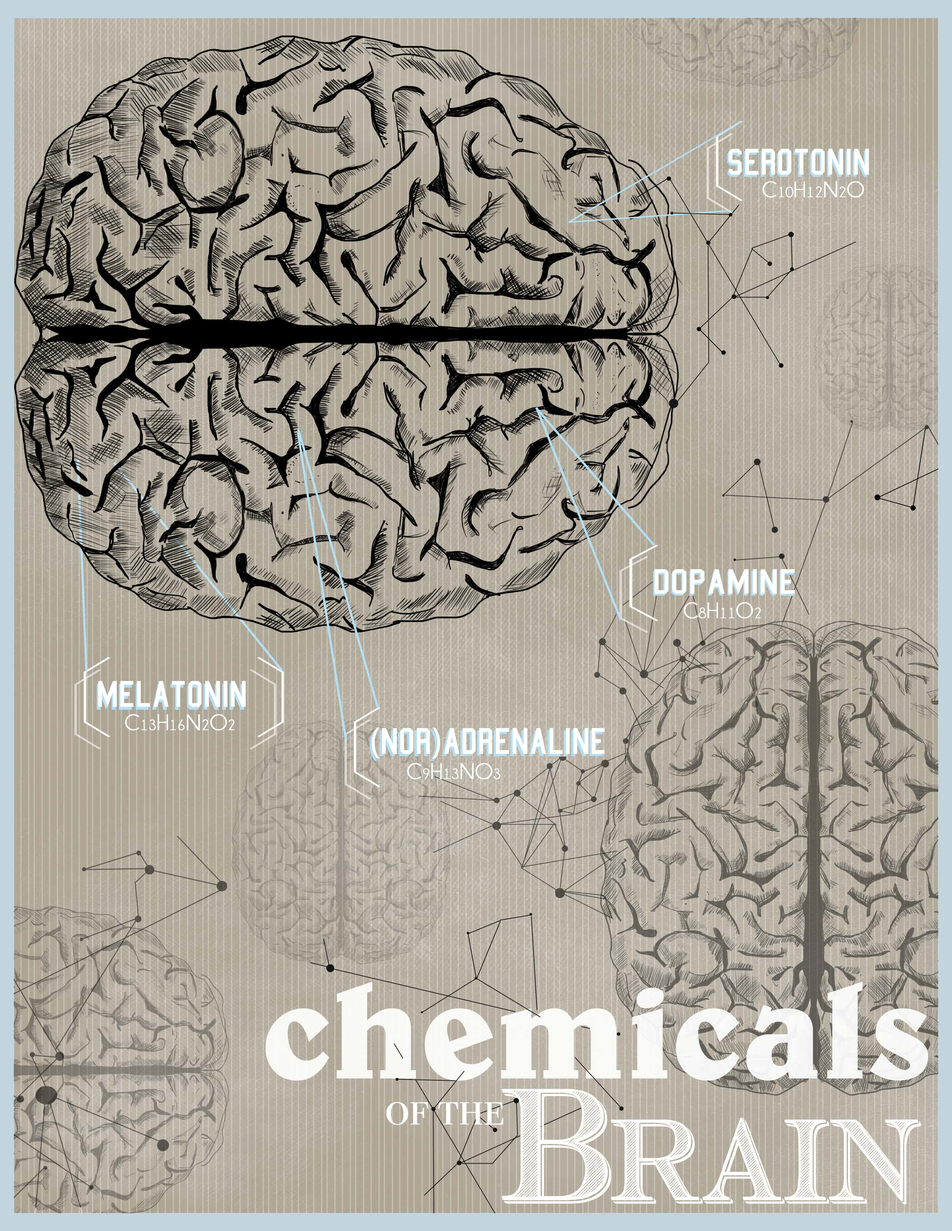
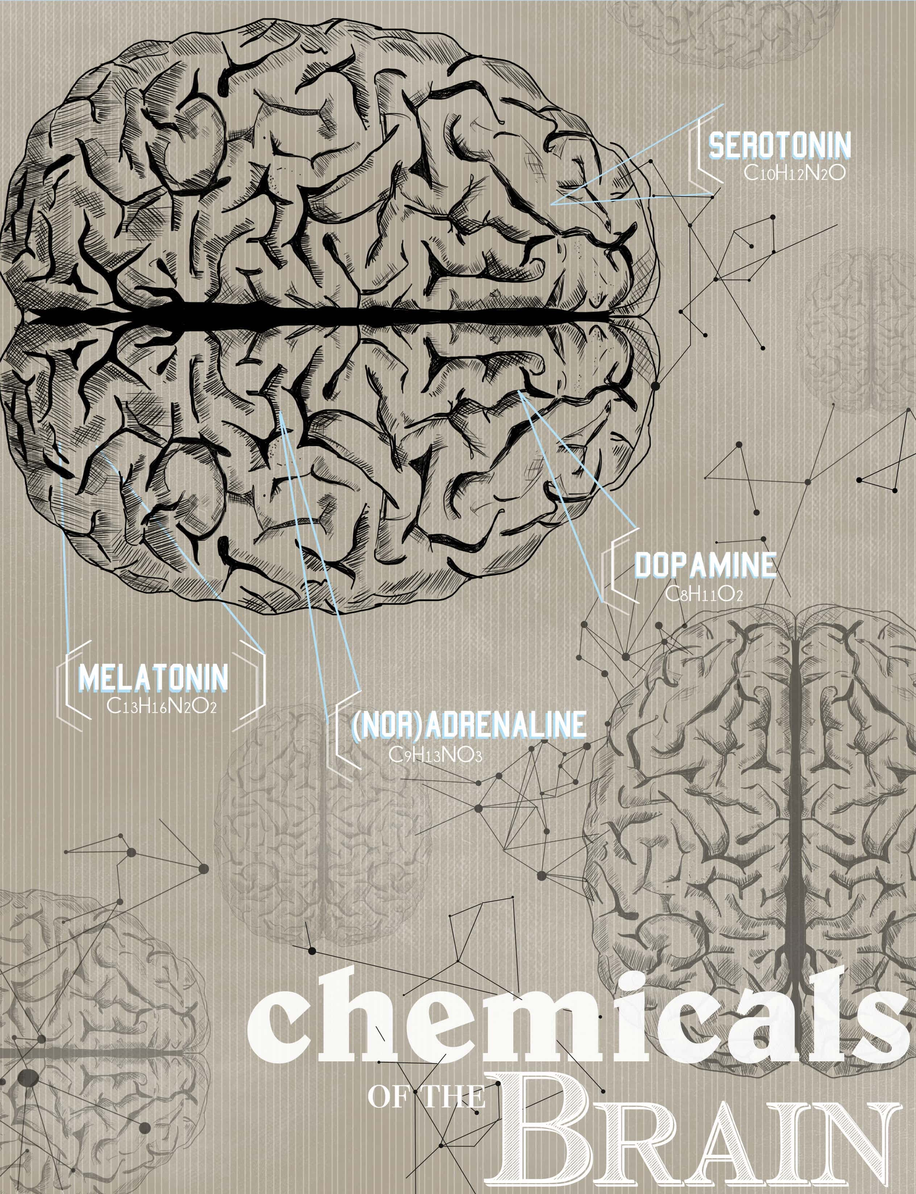
gallery

diff --git a/gallery.html b/gallery.html
@@ -45,84 +45,82 @@
       <div class="uk-width-medium-1-1" style="margin: 40px 0;">
         <span class="sub--section"><a href="work.html"><img src="assets/chevron-left.svg" style="height: 20px; margin-top: -2px; box-shadow: none !important;"><h5 style="display: inline;">Work</h5></a></span>
       </div>
-    <div class="uk-width-medium-1-1 work-title">
-      <h2 style="padding-left: 0;">Graphic Design Gallery</h2>
-    </div>
-    </div>
-    <div class="uk-grid uk-grid-width-medium-1-3">
-      <div class="uk-row-first work-panel" style="overflow:hidden;">
-        <a href="assets/brain.jpg" data-uk-lightbox="{group:'group1'}">
-          <div class="gallery-pic">
-            <img src="assets/brain.jpg">
-          </div>
-        </a>
-      </div>
-      <div class="work-panel" style="overflow:hidden;">
-        <a href="assets/spacec.jpg" data-lightbox-type="image" data-uk-lightbox="{group:'group1'}">
-          <div class="gallery-pic">
-          <img src="assets/spacec.jpg">
-        </div>
-        </a>
-      </div>
-      <div class="work-panel" style="overflow:hidden;">
-        <a href="assets/brainc.jpg" data-lightbox-type="image" data-uk-lightbox="{group:'group1'}">
-          <div class="gallery-pic">
-          <img src="assets/brainc.jpg">
-        </div>
-        </a>
+      <div class='uk-width-medium-1-1 work-title'>
+        <div class="center"><h1 style="margin-top: -95px !important;"> graphic design</h1></div>
       </div>
     </div>
 
-    <div class="uk-grid uk-grid-width-medium-1-3">
-      <div class="uk-row-first work-panel" style="overflow:hidden;">
+    <div class="work-section" >
+
+      <div class="center">
+        <div class="gallery-panels">
+          <a href="assets/brainc.jpg" data-uk-lightbox="{group:'group1'}">
+          <div class="panel gallery-panel">
+            <div class="panel_img" style="background-image: url('./assets/brainc.jpg');" id="full"></div>
+          </div>
+          </a>
+
         <a href="assets/colorwheel.jpg" data-uk-lightbox="{group:'group1'}">
-          <div class="gallery-pic">
-            <img src="assets/colorwheel.jpg" style="min-width: 180%;">
+          <div class="panel gallery-panel">
+            <div class="panel_img" style="background-image: url('./assets/colorwheel.jpg'); " id="img_1"></div>
+            <div class="panel_text">
+              <h3 id="title1"> AP Studio Art </h3>
+              <p id="role1"> Infographics concentration </p>
+              <h4 id="date1"> Spring 2015 </h4>
+            </div>
           </div>
         </a>
-      </div>
-      <div class="work-panel" style="overflow:hidden;">
-        <a href="assets/deforest.jpg" data-lightbox-type="image" data-uk-lightbox="{group:'group1'}">
-          <div class="gallery-pic">
-          <img src="assets/deforest.jpg">
-        </div>
-        </a>
-      </div>
-      <div class="work-panel" style="overflow:hidden;">
-        <a href="assets/christmas_copy.jpg" data-lightbox-type="image" data-uk-lightbox="{group:'group1'}">
-          <div class="gallery-pic">
-          <img src="assets/christmas_copy.jpg">
-        </div>
-        </a>
-      </div>
-    </div>
 
-    <div class="uk-grid uk-grid-width-medium-1-3">
-      <div class="uk-row-first work-panel" style="overflow:hidden;">
-        <a href="assets/dunn_show.jpg" data-uk-lightbox="{group:'group1'}">
-          <div class="gallery-pic">
-            <img src="assets/dunn_show.jpg">
+        <a href="assets/spacec.jpg" data-uk-lightbox="{group:'group1'}">
+        <div class="panel gallery-panel">
+          <div class="panel_img" style="background-image: url('./assets/spacec.jpg');" id="full"></div>
+        </div>
+        </a>
+
+        <a href="assets/spacec.jpg" data-uk-lightbox="{group:'group1'}">
+        <div class="panel gallery-panel" id="text_box">
+          <div class="panel_text">
+            <h3 id="title1"> Design Gallery </h3>
+            <p id="role1"> A few pieces from my high school AP Art studio class. For my concentration, I made a series of infographics. </p>
+            <h4 id="date1"> Spring 2015 </h4>
+          </div>
+        </div>
+        </a>
+
+        <a href="assets/dunvilla.jpg" data-uk-lightbox="{group:'group1'}">
+          <div class="panel gallery-panel">
+            <div class="panel_img" style="background-image: url('./assets/dunvilla.jpg'); " ></div>
+            <div class="panel_text">
+              <h3 id="title1"> Hotel Design </h3>
+              <p id="role1"> Brochure for local hotel </p>
+              <h4 id="date1"> Spring 2015 </h4>
+            </div>
           </div>
         </a>
-      </div>
-      <div class="work-panel" style="overflow:hidden;">
-        <a href="assets/dunvilla.jpg" data-lightbox-type="image" data-uk-lightbox="{group:'group1'}">
-          <div class="gallery-pic">
-          <img src="assets/dunvilla.jpg">
+
+      <a href="assets/deforest.jpg" data-uk-lightbox="{group:'group1'}">
+        <div class="panel gallery-panel">
+          <div class="panel_img" style="background-image: url('./assets/deforest.jpg'); " id="full"></div>
         </div>
-        </a>
-      </div>
-      <div class="work-panel" style="overflow:hidden;">
-        <a href="assets/mn.png" data-lightbox-type="image" data-uk-lightbox="{group:'group1'}">
-          <div class="gallery-pic">
-          <img src="assets/mn.png">
+      </a>
+
+      <a href="assets/christmas_copy.jpg" data-uk-lightbox="{group:'group1'}">
+        <div class="panel gallery-panel">
+          <div class="panel_img" style="background-image: url('./assets/christmas_copy.jpg'); " id="full"></div>
         </div>
-        </a>
+      </a>
+
+      <a href="assets/dunn_show.jpg" data-uk-lightbox="{group:'group1'}">
+        <div class="panel gallery-panel">
+          <div class="panel_img" style="background-image: url('./assets/dunn_show.jpg'); " id="full"></div>
+        </div>
+      </a>
+
+
+      </div>
       </div>
     </div>
-  </div>
-
-
+</div>
   <footer>
     <div>
       <a href='index.html'><p><strong>Hanna Arfine</strong></p>

diff --git a/css/main.css b/css/main.css
@@ -118,28 +118,6 @@ li {
    justify-content: center;
    opacity:0;
 }
-
-.right-container1:hover h3 {
-  visibility: hidden;
-}
-
-.right-container1:hover #overlayblack {
-  opacity: .8;
-  margin-top: -52px;
-  -webkit-transition: opacity .5s ease;
-
-}
-
-.right-container2:hover h3 {
-  visibility: hidden;
-}
-
-.right-container2:hover #overlay {
-  opacity: .8;
-  margin-top: -52px;
-  -webkit-transition: opacity .5s ease;
-}
-
 #more {
   font-family: 'Helvetica Neue', sans-serif;
   text-transform: uppercase;
@@ -522,6 +500,18 @@ p {
   position: absolute;
   flex-wrap: wrap;
 }
+
+.gallery-panels {
+  width: 1000px;
+  margin-top: 4%;
+  position: absolute;
+  flex-wrap: wrap;
+  display: flex;
+    align-items: center;
+}
+#text_box {
+  background: #EBF4FA;
+}
 .panel {
   background: #fff;
   border: .5px solid #ececec;
@@ -535,9 +525,33 @@ p {
   transition: all .2s ease-in-out;
   margin-bottom: 30px;
 }
+.gallery-panel {
+  width: 230px;
+  height: 350px;
+  margin: 10px;
+  box-shadow: 0 1px 7px rgba(0,0,0,.05);
+  border: none;
+}
+.gallery-panel .panel_text {
+  padding: 30px 15px;
+}
+#full {
+  height: 100%;
+}
+.uk-open .uk-modal-dialog {
+      transform: translateY(15%)!important;
+}
+.uk-close-alt {
+  background: #fff !important;
+}
 .panel:hover {
   box-shadow: 0 10px 25px -2px #00000047;
   border: .5px solid #FBEEE7;
+  transition: all .15s ease-in-out;
+}
+.gallery-panel:hover {
+  box-shadow: 0 1px 7px rgba(0,0,0,.3) !important;
+  border: none !important;
   transition: all .15s ease-in-out;
 }
 a {
@@ -661,7 +675,7 @@ a {
 }
 
 .section--contact a{
-  color: #000 !important; 
+  color: #000 !important;
 }
 
 .section--white {
@@ -1114,14 +1128,6 @@ PAGE: PORTFOLIO
 .work-image {
   overflow: hidden;
   border-radius: 10px 10px 0 0;
-}
-
-.work-panel:hover {
-  -moz-transform: translateY(-20px);
-  -webkit-transform: translateY(-20px);
-  transform: translateY(-20px);
-  box-shadow: 0 30px 30px lightgrey;
-  -webkit-transform-style: preserve-3d;
 }
 
 #overlay-work {

diff --git a/js/scripts.js b/js/scripts.js
@@ -86,19 +86,20 @@ let projects_info = [
 
 let fun_info = [
   {
-    'title': 'Graphic Design',
-    'role': 'AP Studio Art',
-    'date': '2013-2015',
-    'img': './assets/brainchem.jpg',
-    'href': 'gallery.html'
-  },
-  {
     'title': 'Photography',
     'role': 'A few photos',
     'date': '2013 - Present',
     'img': './assets/lake.jpg',
     'href': 'https://vsco.co/harfine/images/1'
   },
+  {
+    'title': 'Graphic Design',
+    'role': 'AP Studio Art',
+    'date': '2013-2015',
+    'img': './assets/brainc.jpg',
+    'href': 'gallery.html'
+  },
+
   {'title': 'Laser printing',
     'role': 'Various laser engraving projects',
     'date': 'Spring 2018',
